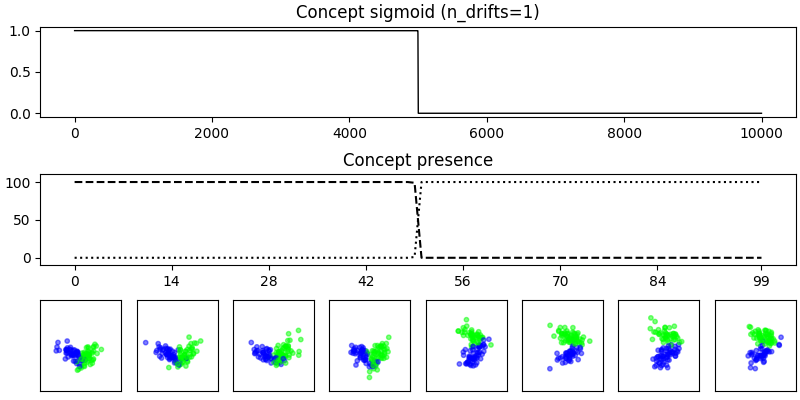
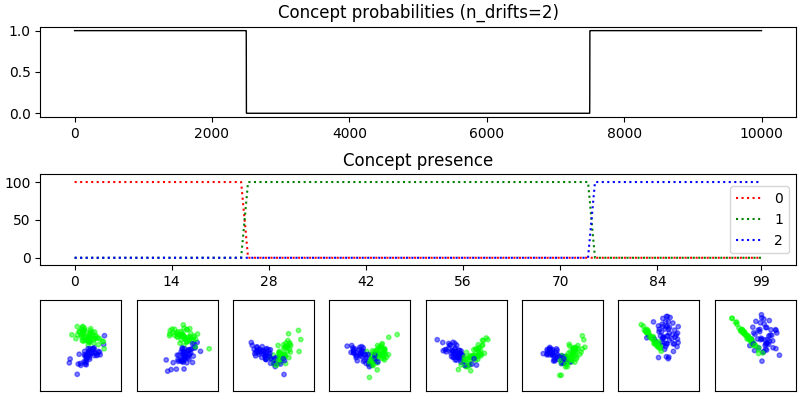
And reocurring drifts.

diff --git a/examples/drift_plotter.py b/examples/drift_plotter.py
@@ -32,9 +32,9 @@ mcargs = {
 
 streams = {
     "0_stationary": StreamGenerator(**mcargs),
-    "2_sudden_drift": StreamGenerator(n_drifts=1, **mcargs),
+    "2_sudden_drift": StreamGenerator(n_drifts=2, reocurring=False, **mcargs),
     "1_incremental_drift": StreamGenerator(
-        n_drifts=1, concept_sigmoid_spacing=5, **mcargs
+        n_drifts=2, concept_sigmoid_spacing=5, reocurring=False, **mcargs
     ),
 }
 
@@ -49,7 +49,7 @@ for stream_name in streams:
     gs = GridSpec(3, len(checkpoints), figure=fig)
 
     # Scatter plots
-    a, b = [], []
+    a, b, c = [], [], []
     for i in range(100):
         X, y = stream.get_chunk()
 
@@ -59,6 +59,7 @@ for stream_name in streams:
             cs = stream.concept_selector[start:end]
             a.append(np.sum(cs == 0))
             b.append(np.sum(cs == 1))
+            c.append(np.sum(cs == 2))
         else:
             a.append(stream.chunk_size)
 
@@ -74,24 +75,26 @@ for stream_name in streams:
     # Concept presence
     ax = fig.add_subplot(gs[1, :])
     ax.set_title("Concept presence")
-    ax.plot(a, c="black", ls=":")
-    ax.plot(b, c="black", ls="--")
+    ax.plot(a, c="red", ls=":", label="0")
+    ax.plot(b, c="green", ls=":", label="1")
+    ax.plot(c, c="blue", ls=":", label="2")
+    ax.legend()
     ax.set_ylim(-10, stream.chunk_size + 10)
     ax.set_xticks(checkpoints)
 
     # Periodical sigmoid
     ax = fig.add_subplot(gs[0, :])
-    if hasattr(stream, "concept_sigmoid"):
+    if hasattr(stream, "concept_probabilities"):
         if stream.concept_sigmoid_spacing is not None:
             ax.set_title(
-                "Concept sigmoid (ss=%.1f, n_drifts=%i)"
+                "Concept probabilities (ss=%.1f, n_drifts=%i)"
                 % (stream.concept_sigmoid_spacing, stream.n_drifts)
             )
         else:
-            ax.set_title("Concept sigmoid (n_drifts=%i)" % (stream.n_drifts))
-        ax.plot(stream.concept_sigmoid, lw=1, c="black")
+            ax.set_title("Concept probabilities (n_drifts=%i)" % (stream.n_drifts))
+        ax.plot(stream.concept_probabilities, lw=1, c="black")
     else:
-        ax.set_title("No concept sigmoid")
+        ax.set_title("No concept probabilities")
     ax.set_ylim(-0.05, 1.05)
 
     plt.savefig("plots/%s.png" % stream_name)

diff --git a/strlearn/streams/StreamGenerator.py b/strlearn/streams/StreamGenerator.py
@@ -44,6 +44,7 @@ class StreamGenerator:
         n_drifts=0,
         concept_sigmoid_spacing=None,
         n_classes=2,
+        reocurring=True,
         **kwargs,
     ):
         # Wyższy spacing, bardziej nagły
@@ -54,6 +55,7 @@ class StreamGenerator:
         self.concept_sigmoid_spacing = concept_sigmoid_spacing
         self.n_classes = n_classes
         self.make_classification_kwargs = kwargs
+        self.reocurring = reocurring
         self.n_samples = self.n_chunks * self.chunk_size
         self.classes = [label for label in range(self.n_classes)]
 
@@ -112,7 +114,7 @@ class StreamGenerator:
                     if self.concept_sigmoid_spacing is not None
                     else 9999
                 )
-                self.concept_sigmoid = (
+                self.concept_probabilities = (
                     logistic.cdf(
                         np.concatenate(
                             [
@@ -133,8 +135,19 @@ class StreamGenerator:
 
                 # Selekcja klas
                 self.concept_selector = (
-                    self.concept_sigmoid > self.concept_noise
+                    self.concept_probabilities < self.concept_noise
                 ).astype(int)
+
+                # Reocurring drift
+                if self.reocurring == False:
+                    for i in range(1, self.n_drifts):
+                        start, end = (i * period, (i + 1) * period)
+                        self.concept_selector[
+                            np.where(self.concept_selector[start:end] == 1)[0] + start
+                        ] = i + ((i + 1) % 2)
+                        self.concept_selector[
+                            np.where(self.concept_selector[start:end] == 0)[0] + start
+                        ] = i + (i % 2)
 
             self.balance_noise = np.random.rand(self.n_samples)
             self.class_selector = (self.balance_noise * self.n_classes).astype(int)
